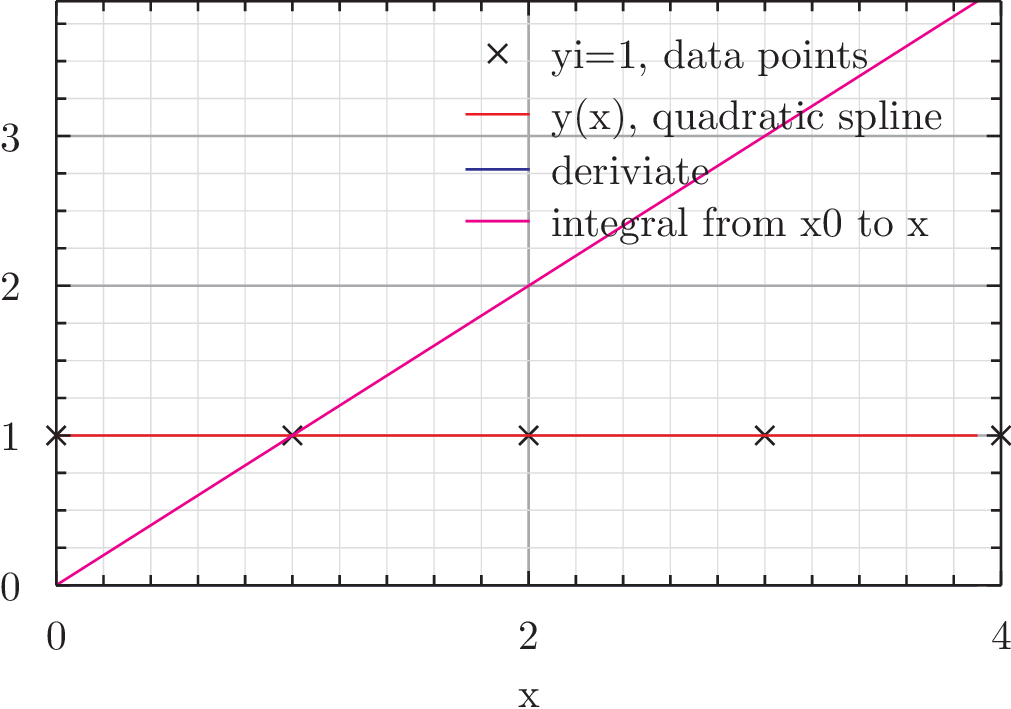
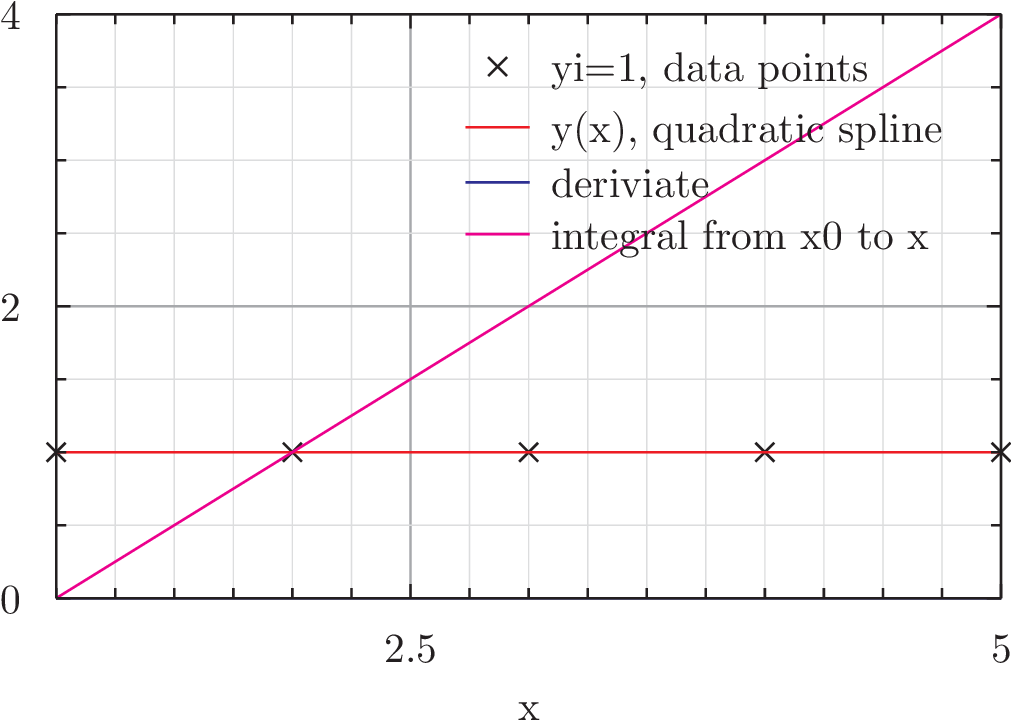
did spline part B

diff --git a/homework/splines/B/qspline.cs b/homework/splines/B/qspline.cs
@@ -19,11 +19,28 @@ public class qspline {
 			p[i] = (y[i+1]-y[i])/dx[i]; //dydx
 		}	
 		
-		b[0] = p[0] - c[0] *dx[0];
+
 		for(int i = 0; i < (x.Length-2); i++){
 			c[i+1] = 1/dx[i+1]*(p[i+1]-p[i]-c[i]*dx[i]);
+		}
+
+		c[x.Length-2]/=2;
+		for(int i = x.Length-3; i >= 0; i--){
+			c[i] = 1/dx[i]*(p[i+1]-p[i]-c[i+1]*dx[i+1]); 
+		}
+
+		b[0] = p[0] - c[0] *dx[0];
+		for(int i = 0; i < (x.Length-2); i++){
 			b[i+1] = p[i+1] - c[i+1] *dx[i+1]; 
 		}
+		
+		// Write out b, c values to file
+		var WriteBCval = new System.IO.StreamWriter("bcval.txt", append:true);
+		WriteBCval.WriteLine("b	c	p");	
+		for(int i = 0; i<(x.Length-1);i++)
+			WriteBCval.WriteLine($"{b[i]}	{c[i]}	{p[i]}");
+		WriteBCval.WriteLine("");
+		WriteBCval.Close();
 	}
 	
 	public double spline(double z){

diff --git a/homework/splines/B/main.cs b/homework/splines/B/main.cs
@@ -8,7 +8,7 @@ class main{
 		var y = new double[5];
 
 		for(int i = 0; i < x.Length; i++){
-			x[i] = i;
+			x[i] = i+1;
 			y[i] = 1;	
 			WriteLine($"{x[i]}	{y[i]}");
 		} 
@@ -18,7 +18,7 @@ class main{
 		calspline(x,y);
 
 		for(int i = 0; i < x.Length; i++){
-			x[i] = i;
+			x[i] = i+1;
 			y[i] = x[i];	
 			WriteLine($"{x[i]}	{y[i]}");
 		} 
@@ -28,7 +28,7 @@ class main{
 		calspline(x,y);
 
 		for(int i = 0; i < x.Length; i++){
-			x[i] = i;
+			x[i] = i+1;
 			y[i] = Pow(x[i],2);	
 			WriteLine($"{x[i]}	{y[i]}");
 		} 
